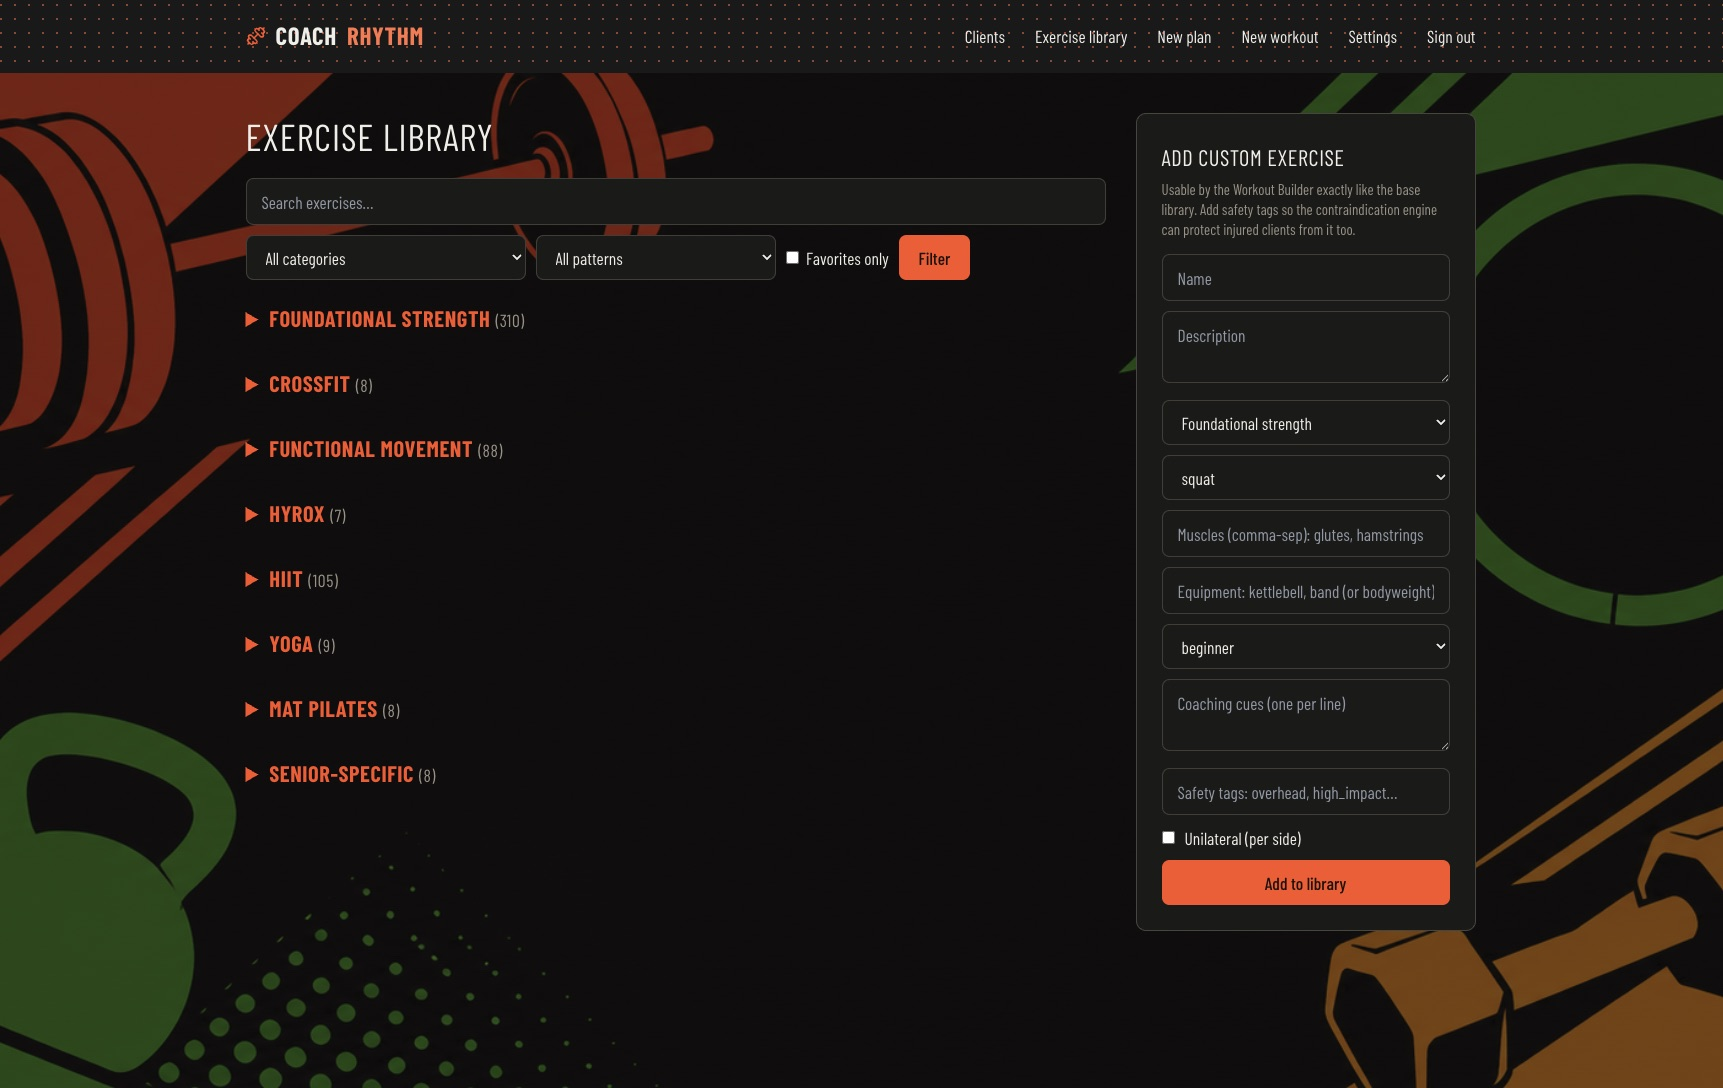
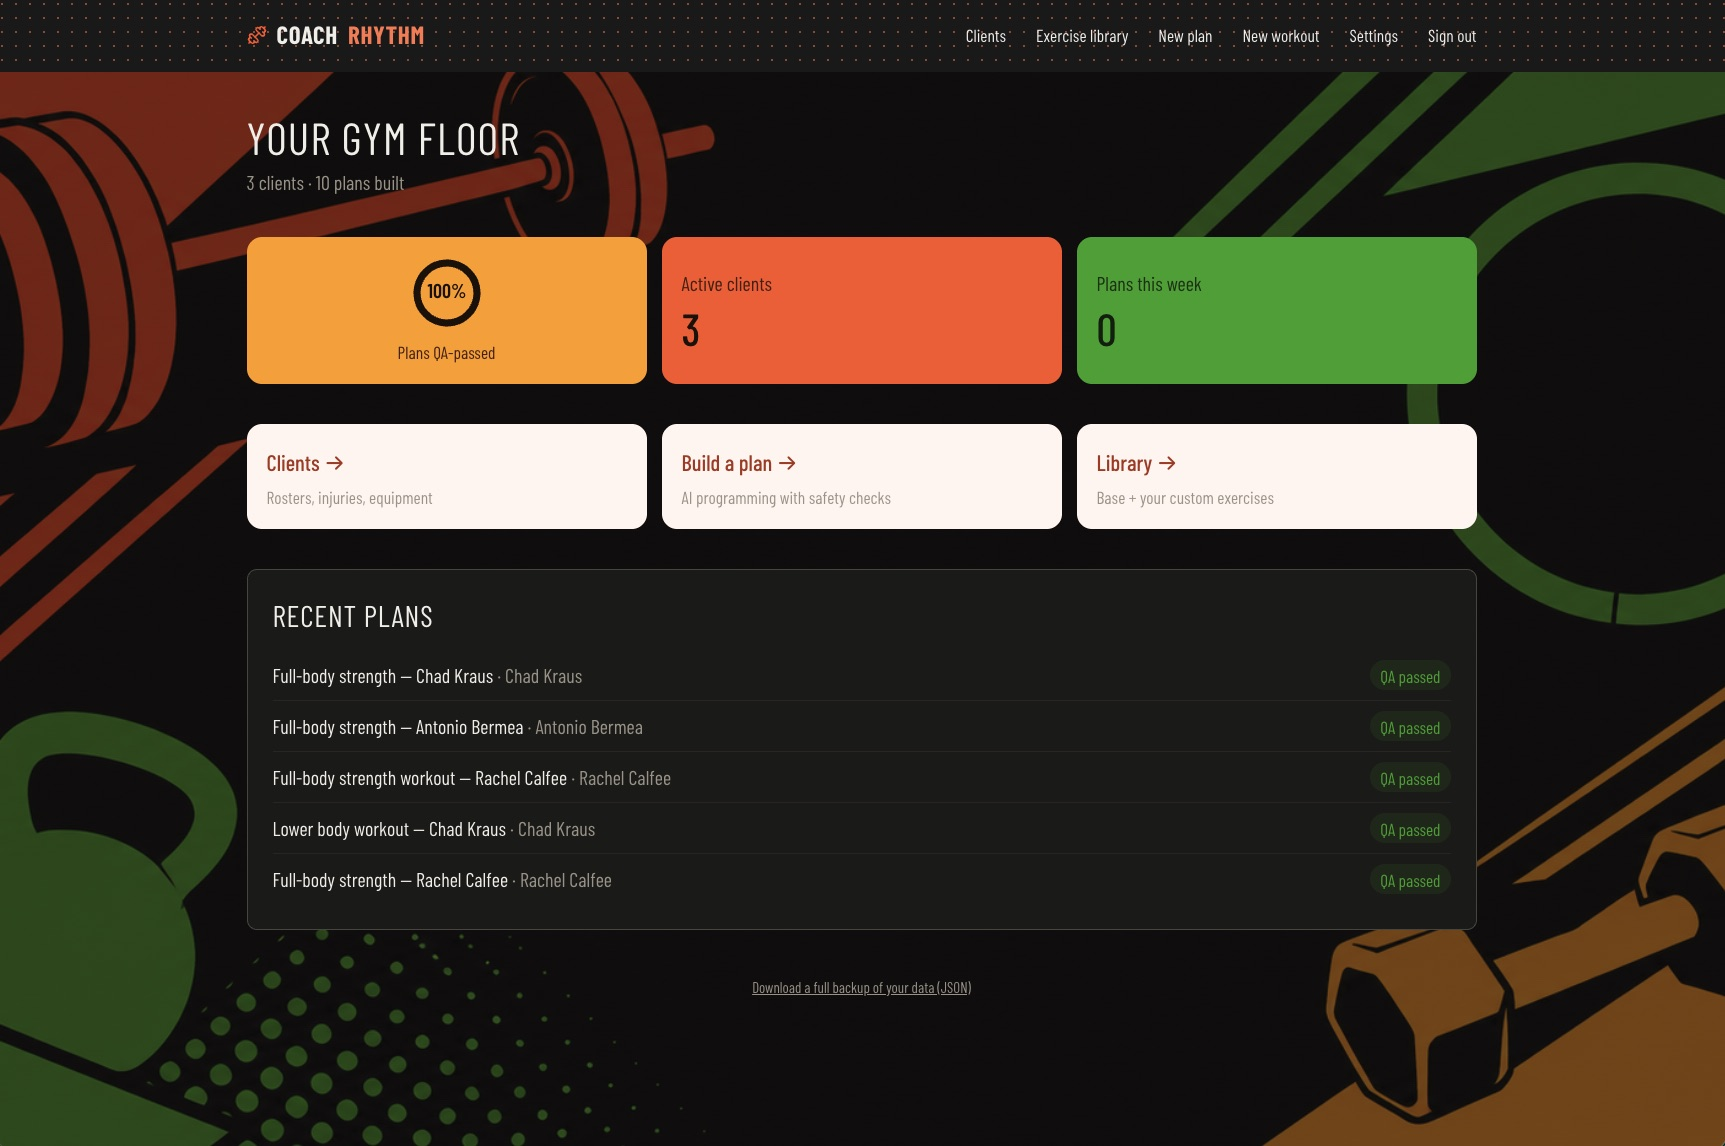
Swap the CoachRhythm card to the dashboard view
The exercise library showed the catalogue; the dashboard shows the product
thesis — client and plan counts, 100% QA-passed, and a per-plan QA badge on
every row. The badges are the differentiator made visible, which is the
thing worth putting on a card.

Converted to JPG at 229KB, in line with the other cards. Project link now
points at the branded host with a trailing slash, matching the others.

diff --git a/src/data/projects.js b/src/data/projects.js
@@ -58,7 +58,7 @@ export const projects = [
       'Exercises are screened against each client\'s logged injuries by a deterministic filter that runs before the model is prompted, so the AI only ever programs from an already-filtered pool — safety never depends on the model following instructions. Its output then clears a second deterministic pass that re-checks movement balance, pull-to-push volume, recovery spacing, rep ranges and progression, with no LLM anywhere in the verification path; a failed check feeds one automatic retry, and plans that still fail are stored as flagged drafts rather than presented as finished. Trainers work from a 543-exercise library tagged by movement pattern, equipment and contraindication, extensible with their own movements. Multi-tenant isolation is enforced in Postgres row-level security and proven by a two-tenant test suite rather than assumed. Built end-to-end with Claude Code.',
     stack: ['Next.js 15', 'TypeScript', 'Supabase (Postgres RLS)', 'Claude API', 'Playwright'],
     image: CoachRhythm,
-    projectLink: 'https://coachrhythm.vercel.app',
+    projectLink: 'https://coachrhythm.vercel.app/',
     repoLink: 'https://github.com/chadkraus87/traincraft',
   },
   {
